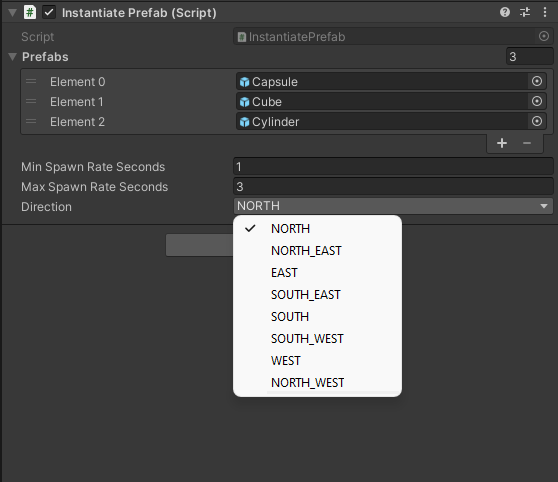
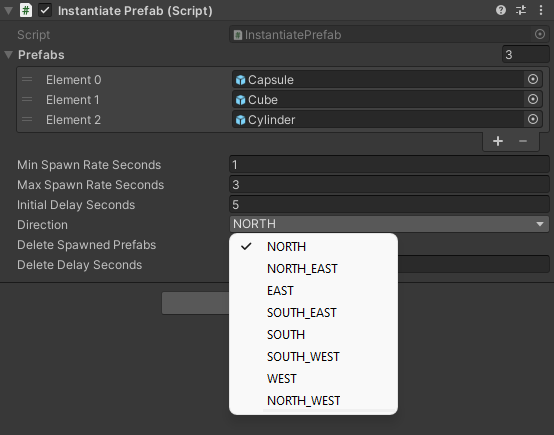
Add initial delay

diff --git a/Assets/Scripts/InstantiatePrefab.cs b/Assets/Scripts/InstantiatePrefab.cs
@@ -19,6 +19,8 @@ public class InstantiatePrefab : MonoBehaviour
     public List<GameObject> prefabs;
     public double minSpawnRateSeconds;
     public double maxSpawnRateSeconds;
+    public double initialDelaySeconds;
+    private bool delayFinished;
     public Direction direction;
     private System.Random random;
     private Transform targetTransform;
@@ -32,7 +34,6 @@ public class InstantiatePrefab : MonoBehaviour
     {
         random = new System.Random();
         spawnedPrefabs = new Dictionary<GameObject, System.DateTime>();
-        lastSeconds = 0f;
 
         // This will set the initial target transform to the parent object's transform
         // This is only done so that targetTransform is never null
@@ -46,34 +47,37 @@ public class InstantiatePrefab : MonoBehaviour
     // Update is called once per frame
     void Update()
     {
-
-        if (Time.time - lastSeconds >= GetRandomValueBetweenRange(minSpawnRateSeconds, maxSpawnRateSeconds))
+        // Allow for initial delay
+        if (Time.time >= initialDelaySeconds)
         {
-            lastSeconds = Time.time;
-            GameObject go = GetRandomPrefab();
-            // Replace with a call to SetTargetTransform
-            Vector3 newPosition = new Vector3();
-            newPosition.x = (float)GetRandomValueBetweenRange(0.1, 5);
-            newPosition.y = (float)GetRandomValueBetweenRange(0.2, 3);
-            newPosition.z = (float)GetRandomValueBetweenRange(0.3, 5);
-            // End Replace
-            spawnedPrefabs.Add(GameObject.Instantiate(go, newPosition, GetDirectionAsQuaternion(direction)), System.DateTime.Now);
-            Debug.Log("Spawned a " + go.name + " at position: " + newPosition + " facing: " + direction);
-        }
-
-        // Delete the spawned prefabs 'deleteDelaySeconds' seconds after they are spawned
-        if (deleteSpawnedPrefabs)
-        {
-            foreach (KeyValuePair<GameObject, System.DateTime> pair in spawnedPrefabs)
+            if (Time.time - lastSeconds >= GetRandomValueBetweenRange(minSpawnRateSeconds, maxSpawnRateSeconds))
             {
-                // Skip any destroyed prefabs, these will be null references now
-                if (pair.Key != null)
+                lastSeconds = Time.time;
+                GameObject go = GetRandomPrefab();
+                // Replace with a call to SetTargetTransform
+                Vector3 newPosition = new Vector3();
+                newPosition.x = (float)GetRandomValueBetweenRange(0.1, 5);
+                newPosition.y = (float)GetRandomValueBetweenRange(0.2, 3);
+                newPosition.z = (float)GetRandomValueBetweenRange(0.3, 5);
+                // End Replace
+                spawnedPrefabs.Add(GameObject.Instantiate(go, newPosition, GetDirectionAsQuaternion(direction)), System.DateTime.Now);
+                Debug.Log("Spawned a " + go.name + " at position: " + newPosition + " facing: " + direction);
+            }
+
+            // Delete the spawned prefabs 'deleteDelaySeconds' seconds after they are spawned
+            if (deleteSpawnedPrefabs)
+            {
+                foreach (KeyValuePair<GameObject, System.DateTime> pair in spawnedPrefabs)
                 {
-                    // If the creation time + the delete delay is either now or in the past, destroy the prefab
-                    if (System.DateTime.Now >= pair.Value.Add(new System.TimeSpan(0, 0, deleteDelaySeconds)))
+                    // Skip any destroyed prefabs, these will be null references now
+                    if (pair.Key != null)
                     {
-                        Debug.Log("Destroyed prefab " + pair.Key.name);
-                        Destroy(pair.Key);
+                        // If the creation time + the delete delay is either now or in the past, destroy the prefab
+                        if (System.DateTime.Now >= pair.Value.Add(new System.TimeSpan(0, 0, deleteDelaySeconds)))
+                        {
+                            Debug.Log("Destroyed prefab " + pair.Key.name);
+                            Destroy(pair.Key);
+                        }
                     }
                 }
             }
